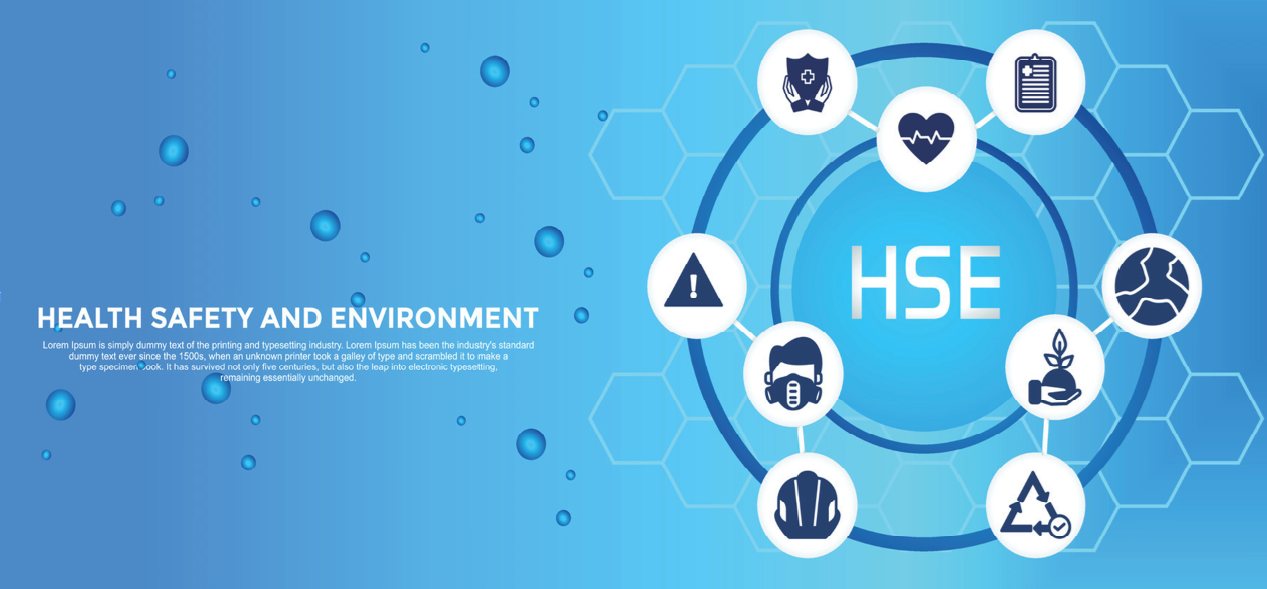
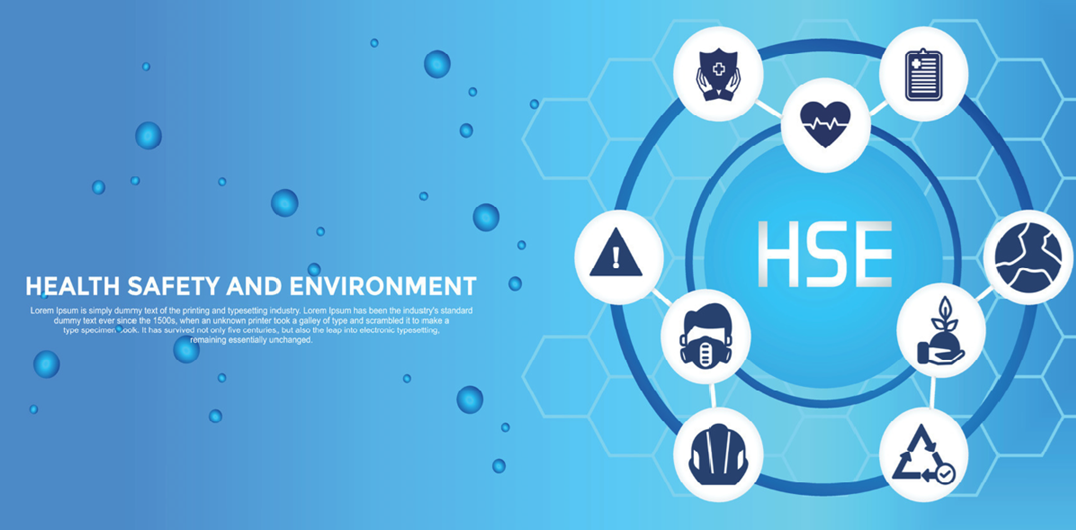
adding styling in progress safety commit

diff --git a/server.js b/server.js
@@ -6,18 +6,26 @@ const mongoose = require("mongoose");
 const methodOverride = require("method-override");
 const morgan = require("morgan");
 const session = require("express-session");
+const path = require("path");
+
+app.use(express.static(path.join(__dirname, 'assets')));
+app.use(express.static(path.join(__dirname, 'css')));
 
 const authController = require("./controllers/auth.js");
 const goodCatchController = require("./controllers/goodCatch.js");
+
 const {
   companySites,
   eventCategories,
   corpDepartments,
-} = require("./constants"); // Import constants
+} = require("./constants");
 
-const port = process.env.PORT ? process.env.PORT : "3000";
+const port = process.env.PORT || 3000;
 
-mongoose.connect(process.env.MONGODB_URI);
+mongoose.connect(process.env.MONGODB_URI, {
+  useNewUrlParser: true,
+  useUnifiedTopology: true,
+});
 
 mongoose.connection.on("connected", () => {
   console.log(`Connected to MongoDB ${mongoose.connection.name}.`);
@@ -25,9 +33,18 @@ mongoose.connection.on("connected", () => {
 
 app.set("view engine", "ejs");
 
+app.use((req, res, next) => {
+  res.setHeader("Cache-Control", "no-store, no-cache, must-revalidate, private");
+  res.setHeader("Pragma", "no-cache");
+  res.setHeader("Expires", "-1");
+  next();
+});
+
+
 app.use(express.urlencoded({ extended: false }));
 app.use(methodOverride("_method"));
-// app.use(morgan('dev'));
+app.use(morgan('dev'));
+
 app.use(
   session({
     secret: process.env.SESSION_SECRET,
@@ -43,7 +60,7 @@ app.get("/", (req, res) => {
 });
 
 app.use("/auth", authController);
-app.use("/goodCatch", require("./controllers/goodCatch"));
+app.use("/goodCatch", goodCatchController); // Use the imported controller
 
 app.listen(port, () => {
   console.log(`The express app is ready on port ${port}!`);

diff --git a/css/styles.css b/css/styles.css
@@ -1,0 +1,31 @@
+* {
+  margin: 0;
+  padding: 0;
+  box-sizing: border-box;
+  /* color: #00CCFF; */
+  color: white;
+}
+
+body,
+html {
+  height: 100%;
+  color: white;
+}
+
+.background-image {
+  background-image: url("/hse-vector.jpg");
+  background-size: cover; /* This makes the image cover the entire screen */
+  background-position: center; /* Centers the image */
+  height: 100vh; /* Full viewport height */
+  display: flex;
+  color: white;
+  justify-content: flex-start; /* Aligns content to the start of the flex container */
+  align-items: flex-start; /* Aligns content to the start of the flex container */
+}
+
+.text-content {
+  margin-top: 33vh; /* Starts the text about 1/3 of the way down */
+  margin-left: 3%; /* Adjusts the text to the left third of the screen */
+  color: white; /* Changes the text color for better visibility, change if needed */
+  font-family: Arial, sans-serif; /* Example font family */
+}

diff --git a/controllers/auth.js b/controllers/auth.js
@@ -9,6 +9,7 @@ router.get('/sign-up', (req, res) => {
 });
 
 router.get('/sign-in', (req, res) => {
+  console.log("Sign-in route accessed"); // Debugging 
   res.render('auth/sign-in.ejs');
 });
 
